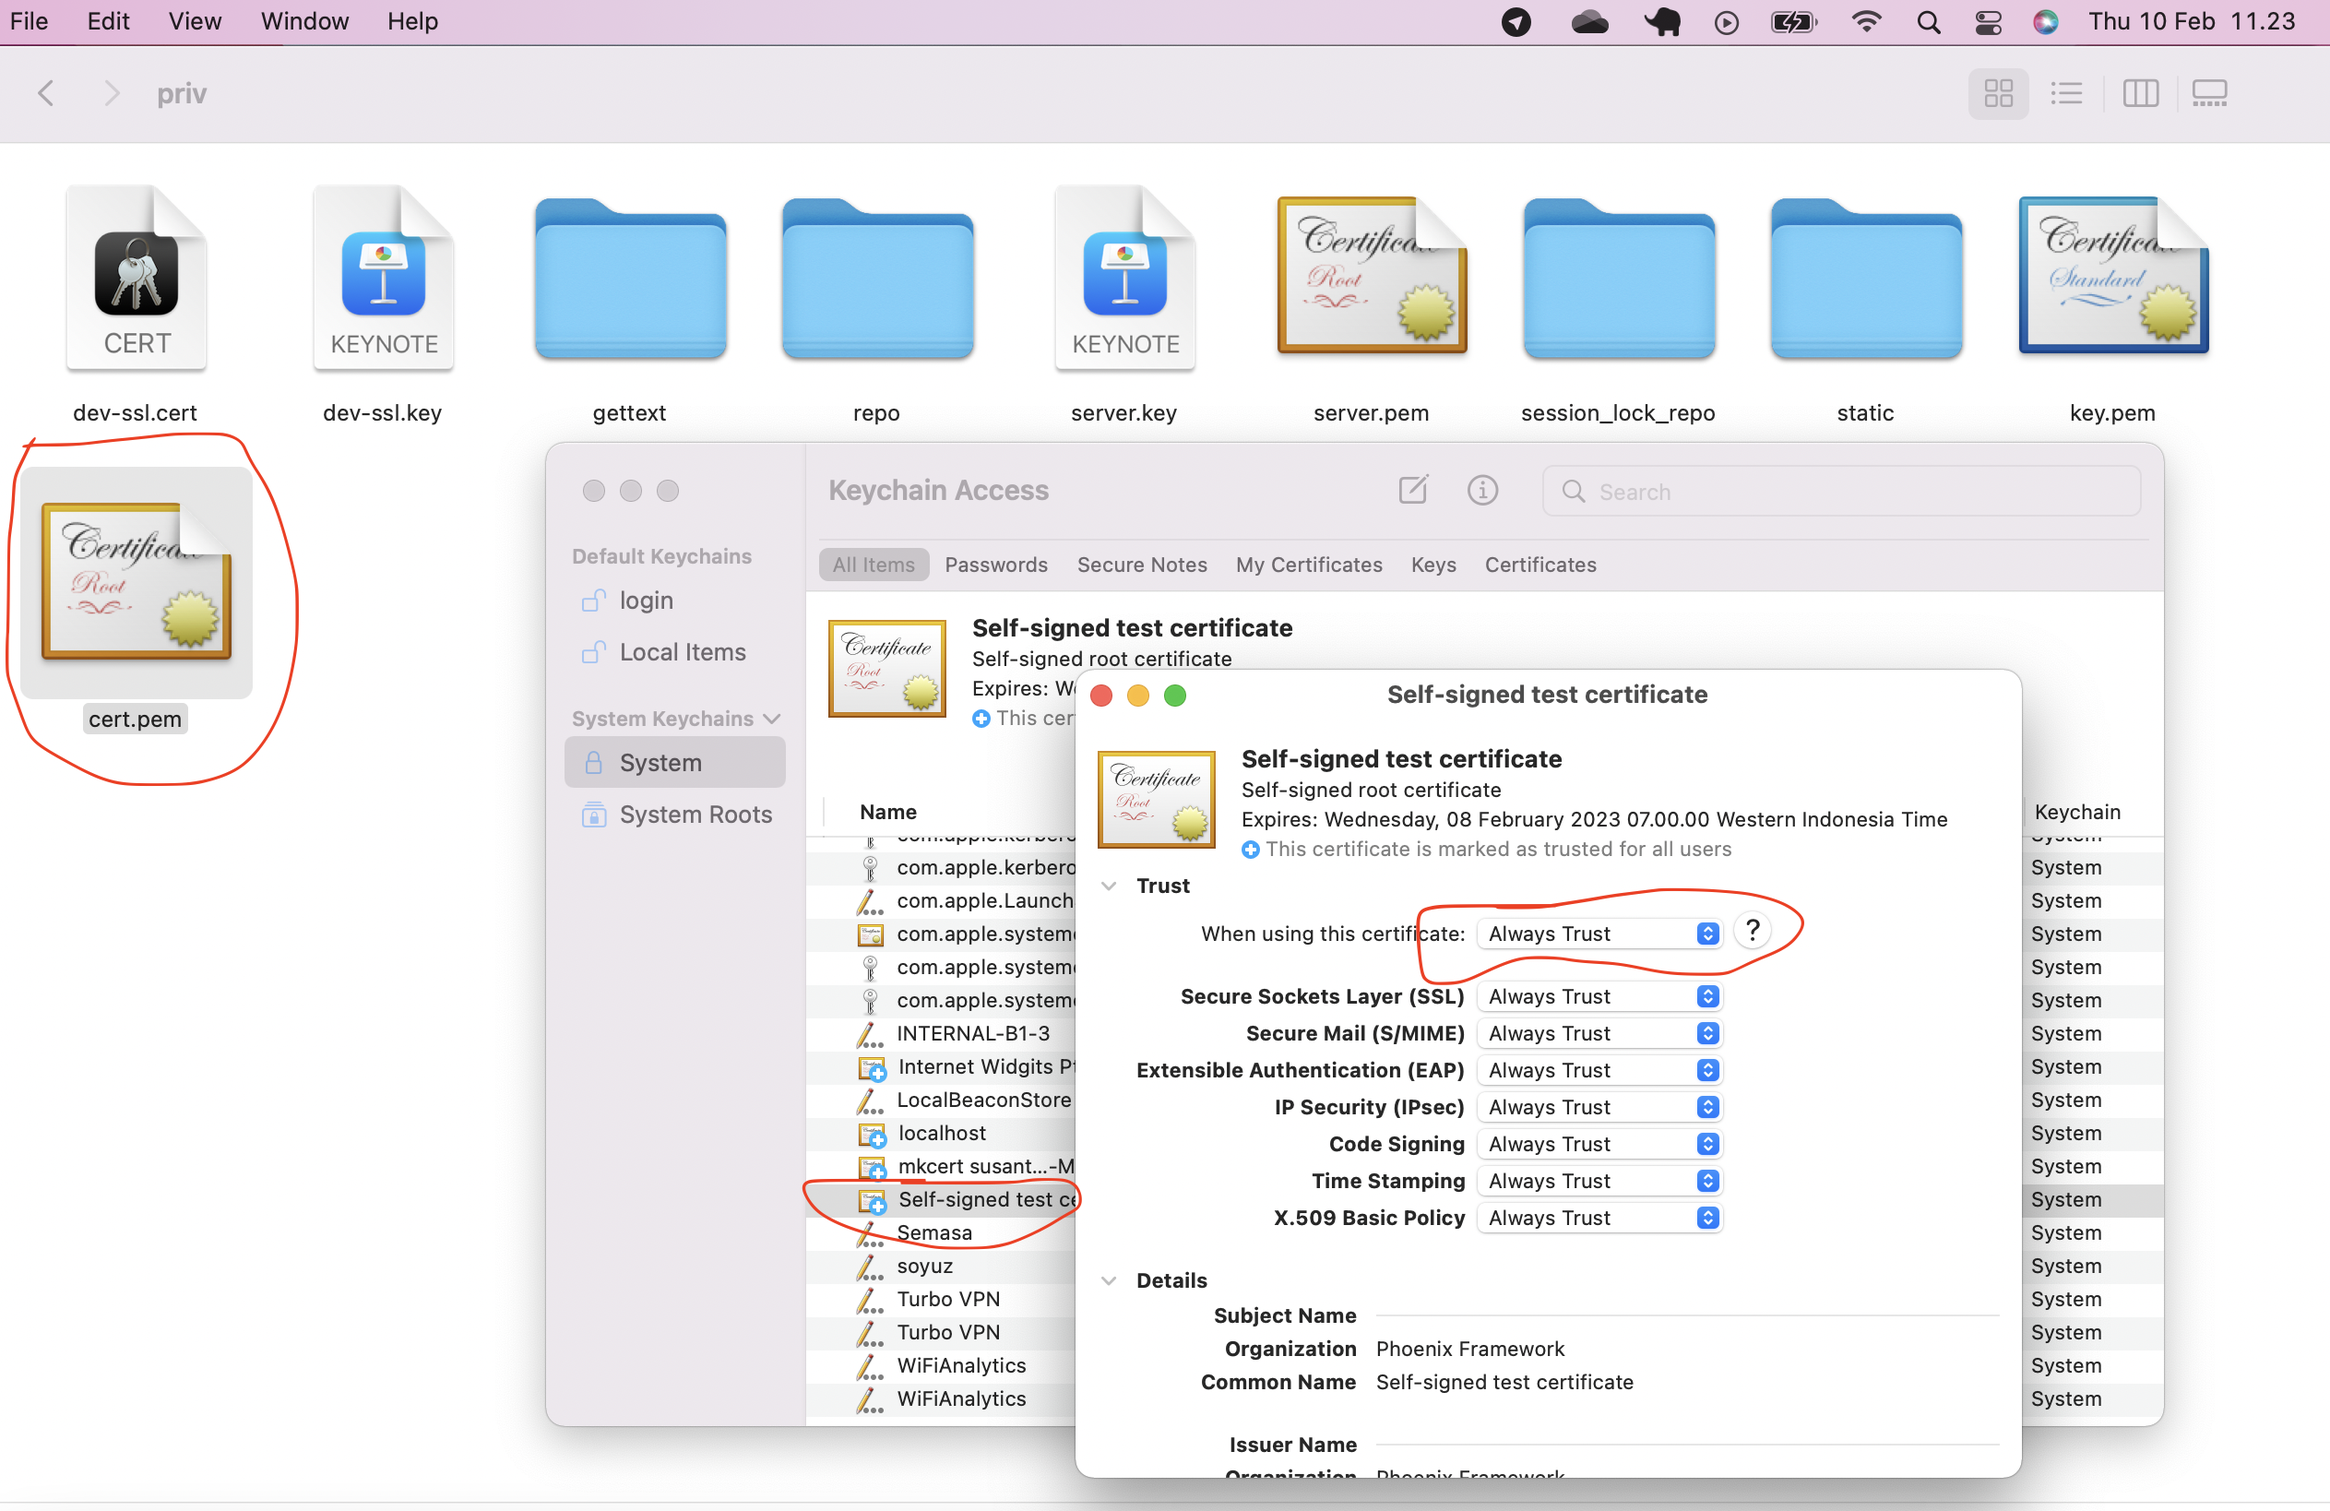
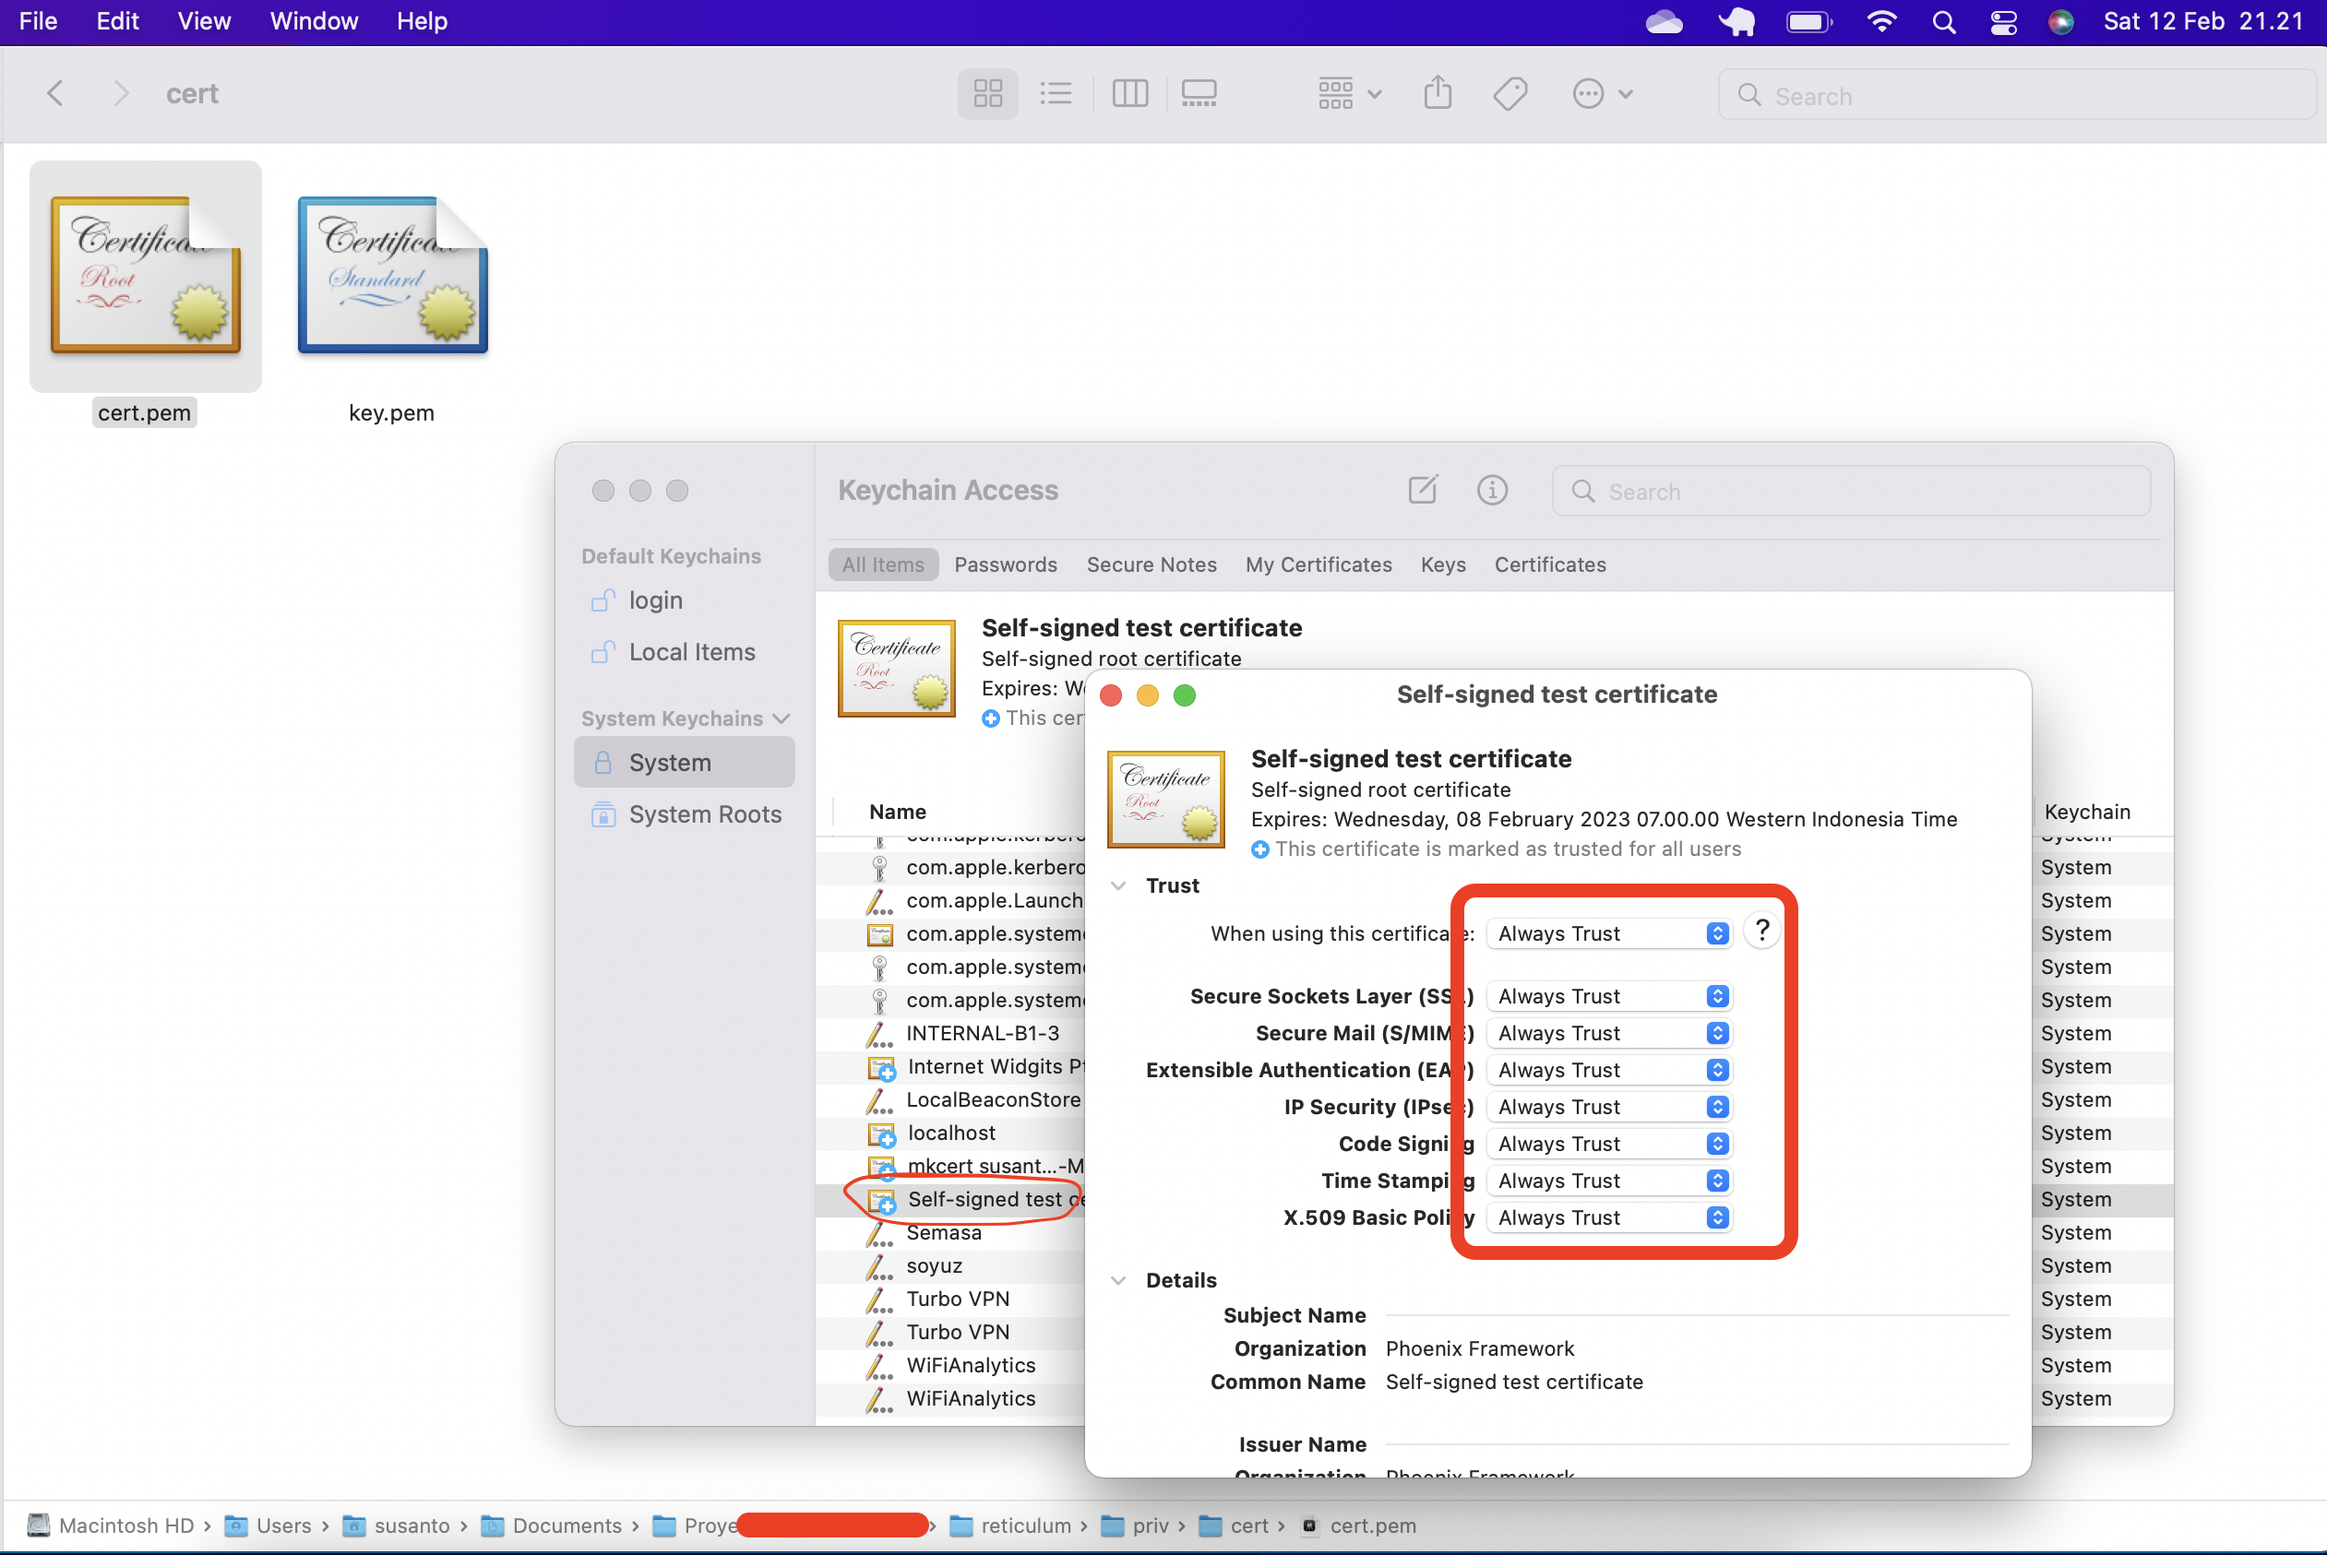
update key and cert file location

diff --git a/README.md b/README.md
@@ -193,15 +193,25 @@ so change every host configuration on reticulum, dialog, hubs, hubs admin, spoke
 
 # 3. Setting up HTTPS (SSL)
 
-all the server must serve with https. so inside the reticulum directory you must generate certificate and key file
+All the server must serve with https. you must generate certificate and key file
 
-run command `mix phx.gen.cert` it will generate key `selfsigned_key.pem` and certificate `selfsigned.pem`
+## 3.1 Generating Certificate and make it trust
 
-rename `selfsigned_key.pem` to `key.pem`
+Open terimnal in reticulum directory
 
-rename `selfsigned.pem` to `cert.pem`
+run command 
 
-in reticulum directory move that two file into `priv/` folder
+```bash
+mix phx.gen.cert
+```
+
+It will generate key `selfsigned_key.pem` and certificate `selfsigned.pem` in the `piv/cert` folder
+
+Rename `selfsigned_key.pem` to `key.pem`
+
+Rename `selfsigned.pem` to `cert.pem`
+
+## Now we have `key.pem` and `cert.pem` file
 
 In Mac OS, I don't know in windows or linux. please find it your self
 
@@ -213,22 +223,13 @@ Select the `cert.pem` and `key.pem` and copy it. next step we will distribute th
 
 Oke first setting up in the reticulum.
 
-## 3.1 Setting https for reticulum
+## 3.2 Setting https for reticulum
 
-then change the `config/dev.exs` setting path for the certificate and key file.
+On the `config/dev.exs` We must setting path for the certificate and key file.
 
-```elixir
-config :my_app, MyAppWeb.Endpoint,
-  ...
-  https: [
-    port: 4001,
-    cipher_suite: :strong,
-    keyfile: "priv/key.pem",
-    certfile: "priv/cert.pem"
-  ]
-```
+![Https mozilla hubs](/docs_img/cert_1.png)
 
-## 3.2 Setting https for hubs
+## 3.3 Setting https for hubs
 
 Paste that file into `hubs/certs`
 
@@ -241,7 +242,7 @@ Like this picture
 
 ![ssl hubs](/docs_img/ssl_hubs.png)
 
-## 3.3 Setting https for hubs admin
+## 3.4 Setting https for hubs admin
 
 Paste that file into `hubs/admin/certs`
 
@@ -254,7 +255,7 @@ Like this picture
 
 ![ssl hubs admin](/docs_img/ssl_hubs_admin.png)
 
-## 3.4 Setting https for spoke
+## 3.5 Setting https for spoke
 
 Paste that file into `spoke/certs`
 
@@ -269,7 +270,7 @@ With this
 cross-env NODE_ENV=development BASE_ASSETS_PATH=https://localhost:9090/ webpack-dev-server --mode development --https --cert certs/cert.pem --key certs/key.pem
 ```
 
-## 3.5 Setting https for dialog
+## 3.6 Setting https for dialog
 
 Paste that file into `dialog/certs`
 
